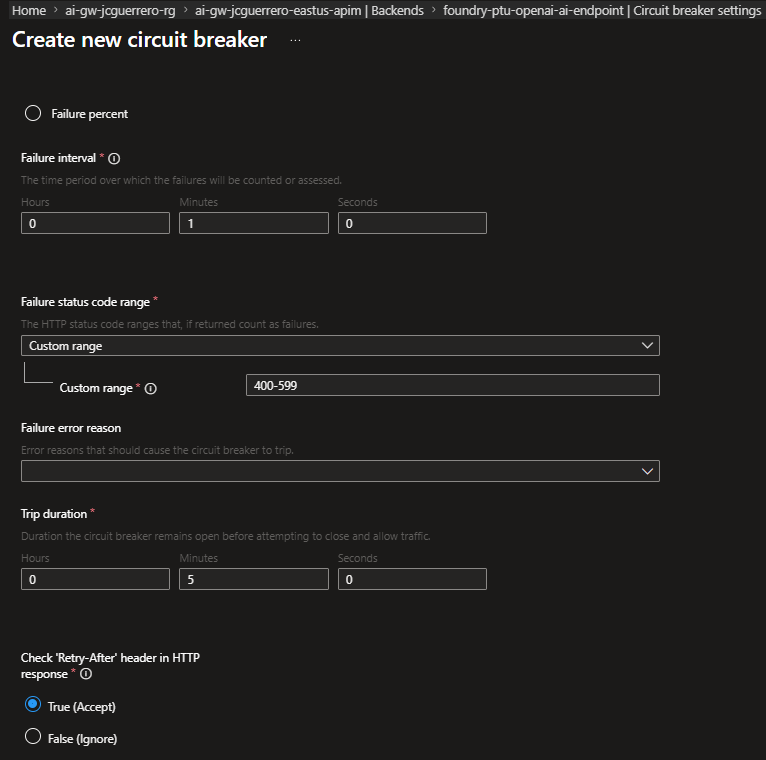
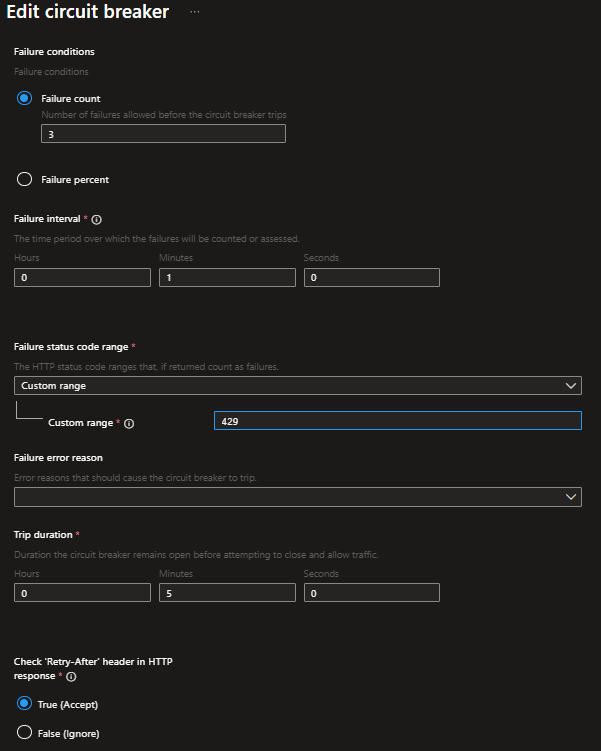
feat(tutorial): Add image for TooManyRequests in load balancing section

diff --git a/docs/tutorial/04/load_balance.md b/docs/tutorial/04/load_balance.md
@@ -42,6 +42,8 @@ Great! Now we have a pool. But how will APIM "know" when `-ptu-` is unhealthy en
   - Minutes:`5`
 - **Check 'Retry-After header in HTTP response**: True (Accept)
 
+![TooManyRequests](../../../assets/img/tutorial/eastus/apim/Backends/foundry-ptu-openai/Circuit_breaker_settings/+/TooManyRequests.png)
+
 Oah! What was all that? Nothing much, basically:\
 
 > "If when I try getting a chat-completion from `-ptu-` I get 3 `429 Too Many Requests` responses within 1 minute,
